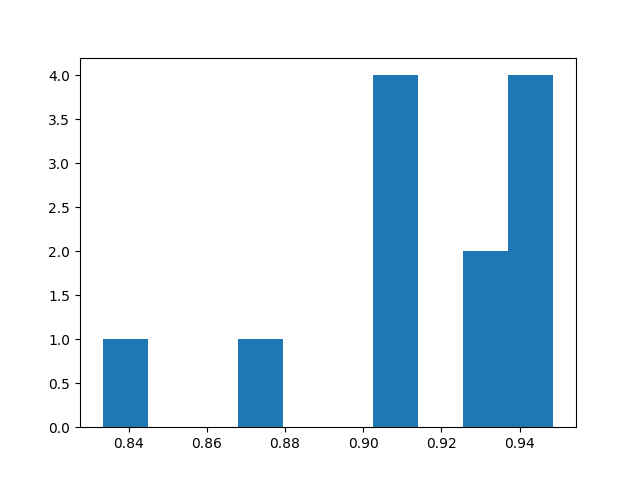
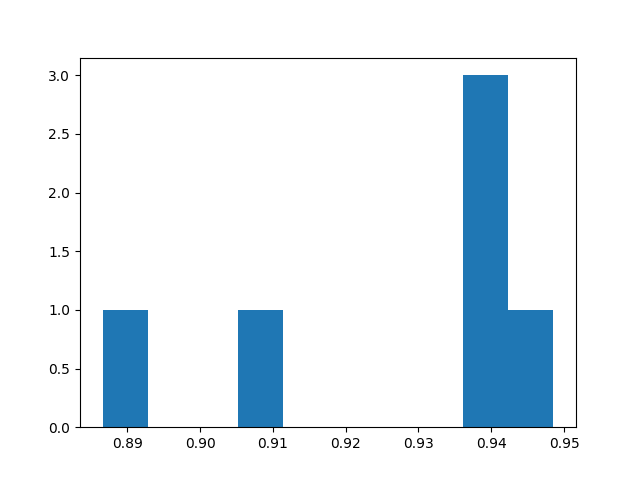
ABC and LOLStudy Done

diff --git a/main.py b/main.py
@@ -1,12 +1,14 @@
 from ABC_HFs import *
 from runParameter import *
+from scipy.io import loadmat
 
 import laspy
 import multiprocessing
 import matplotlib.pyplot as plt
 import time
 
-from scipy.io import loadmat
+finalDirectory  =  "/shome/yousef_j/thesisMATLAB/LawOfLargeNumbers"
+
 
 # import relevant data
 data = loadmat('A6.mat')
@@ -71,13 +73,13 @@ def run_simulation(start_index, end_index, results_queue):
 
 # Multiprocessing
 manager = multiprocessing.Manager()
-results_queue = manager.Queue()
+resultsQueue = manager.Queue()
 processes = []
 for i in range(numberOfCores): 
     start_index = i * simulations_per_core
     end_index = (i + 1) * simulations_per_core
     process = multiprocessing.Process(
-        target=run_simulation, args=(start_index, end_index, results_queue)
+        target=run_simulation, args=(start_index, end_index, resultsQueue)
     )
     process.start()
     processes.append(process)
@@ -89,8 +91,8 @@ for process in processes:
 # Get the results from the queue
 phi = []
 storageDestinations = []
-while not results_queue.empty():
-    phi_temp, storageDestinations_temp = results_queue.get()
+while not resultsQueue.empty():
+    phi_temp, storageDestinations_temp = resultsQueue.get()
     phi.extend(phi_temp)
     storageDestinations.extend(storageDestinations_temp)
 
@@ -105,13 +107,126 @@ plt.close()
 
 # Plotting simulated debris
 counter = 0
+locAvg, locStd, lengthSim, widthSim, angleSim = summaryStatistics(storageDestinations[0], pointOfImpact)
 for i in range(len(storageDestinations[0])):
-    if storageDestinations[0][i, 0] < 100:
+    point = storageDestinations[0][i]
+    if point[0] < 100:
         counter += 1
         continue
     else:
-        plt.scatter(storageDestinations[0][i, 0], storageDestinations[0][i, 1], color='black')
-plt.scatter(pointOfImpact[0], pointOfImpact[1], color='yellow')
+        plt.scatter(point[0], point[1], color='black')
+plt.scatter(pointOfImpact[0], pointOfImpact[1], color='Yellow')
+plt.scatter(locAvg[0], locAvg[1], color='red')
 plt.savefig("TopView")
 
 print("Number of accepted samples is", len(phi))
+print("Points exluded = ", counter)
+
+###### Law of Large numbers test ######
+###### Law of Large numbers test ######
+###### Law of Large numbers test ######
+###### Law of Large numbers test ######
+
+# def vanillaSimulation(startIdx, endIdx, results):
+#     N = endIdx - startIdx  
+#     avgX, avgY, avgZ, stdX, stdY, length, width, angle = [], [], [], [], [], [], [], []
+#     for i in range(N):
+#         storageDestinations = runParameter(ptCloud, lowestPoint, projectileMass, projectileLength, 
+#                                            projectileVelocity, pointOfImpact, psi, phi, c, b, minPen, maxPen, devPen, KDTree,)
+#         locAvg, locStd, lengthSim, widthSim, angleSim = summaryStatistics(storageDestinations, pointOfImpact)
+#         avgX.append(locAvg[0])  
+#         avgY.append(locAvg[1])  
+#         avgZ.append(locAvg[2])  
+#         stdX.append(locStd[0])  
+#         stdY.append(locStd[1])  
+#         length.append(lengthSim)
+#         width.append(widthSim) 
+#         angle.append(angleSim)
+#     results.put((avgX, avgY, avgZ, stdX, stdY, length, width, angle))
+
+# # Multiprocessing
+# manager = multiprocessing.Manager()
+# resultsQueue = manager.Queue()
+# processes = []
+# for i in range(numberOfCores): 
+#     start_index = i * simulations_per_core
+#     end_index = (i + 1) * simulations_per_core
+#     process = multiprocessing.Process(
+#         target=vanillaSimulation, args=(start_index, end_index, resultsQueue)
+#     )
+#     process.start()
+#     processes.append(process)
+
+# # Wait for all processes to finish
+# for process in processes:
+#     process.join()
+
+# avgX, avgY, avgZ, stdX, stdY, length, width, angle = [], [], [], [], [], [], [], []
+# while not resultsQueue.empty():
+#     avgX_temp, avgY_temp, avgZ_temp, stdX_temp, stdY_temp, length_temp, width_temp, angle_temp = resultsQueue.get()
+#     avgX.extend(avgX_temp)
+#     avgY.extend(avgY_temp)
+#     avgZ.extend(avgZ_temp)
+#     stdX.extend(stdX_temp)
+#     stdY.extend(stdY_temp)
+#     length.extend(length_temp)
+#     width.extend(width_temp)
+#     angle.extend(angle_temp)
+
+
+# storageDestinations = runParameter(ptCloud, lowestPoint, projectileMass, projectileLength, 
+#                                            projectileVelocity, pointOfImpact, psi, phi, c, b, minPen, maxPen, devPen, KDTree,)
+# locAvg, locStd, lengthSim, widthSim, angleSim = summaryStatistics(storageDestinations, pointOfImpact)
+
+# # Plotting simulated debris
+# counter = 0
+# for i in range(len(storageDestinations)):
+#     if storageDestinations[i, 0] < 100:
+#         counter += 1
+#         continue
+#     else:
+#         plt.scatter(storageDestinations[i, 0], storageDestinations[i, 1], color='black')
+# plt.scatter(pointOfImpact[0], pointOfImpact[1], color='Yellow')
+# plt.scatter(locAvg[0], locAvg[1], color='red')
+# plt.savefig("TopView")
+
+# plot posterior distribution of phi
+# plt.hist(avgX)
+# plt.savefig(finalDirectory + "/avgX")
+# plt.clf()
+# plt.close()
+
+# plt.hist(avgY)
+# plt.savefig(finalDirectory + "/avgY")
+# plt.clf()
+# plt.close()
+
+# plt.hist(avgZ)
+# plt.savefig(finalDirectory + "/avgZ")
+# plt.clf()
+# plt.close()
+
+# plt.hist(stdX)
+# plt.savefig(finalDirectory + "/stdX")
+# plt.clf()
+# plt.close()
+
+# plt.hist(stdY)
+# plt.savefig(finalDirectory + "/stdY")
+# plt.clf()
+# plt.close()
+
+# plt.hist(length)
+# plt.savefig(finalDirectory + "/length")
+# plt.clf()
+# plt.close()
+
+# plt.hist(width)
+# plt.savefig(finalDirectory + "/width")
+# plt.clf()
+# plt.close()
+
+# plt.hist(angle)
+# plt.savefig(finalDirectory + "/angle")
+# plt.clf()
+# plt.close()

diff --git a/ABC_HFs.py b/ABC_HFs.py
@@ -3,8 +3,15 @@ import numpy as np
 def summaryStatistics(debrisLocations, pointOfImpact):
     # summary statistics for the data
     #1. average location and its std
-    locAvg  = np.array([np.average(debrisLocations[:, 0]), np.average(debrisLocations[:, 1])])
-    locStd  = np.array([np.std(debrisLocations[:, 0]), np.std(debrisLocations[:, 1])])
+    debrisLocations = debrisLocations[debrisLocations[:, 0] >= 100]
+    locAvg = np.array([
+        np.average(debrisLocations[:, 0]),
+        np.average(debrisLocations[:, 1])
+    ])
+    locStd = np.array([
+        np.std(debrisLocations[:, 0]),
+        np.std(debrisLocations[:, 1])
+    ])
 
     #2. area covered by the debris
     excludedIndicies = []
@@ -22,9 +29,9 @@ def summaryStatistics(debrisLocations, pointOfImpact):
     width   = Ymax - Ymin
 
     #3. angle the avg point makes wrt crash location
-    vec     = locAvg - pointOfImpact[:2]
+    vec     = locAvg[:2] - pointOfImpact[:2]
     angle   = np.rad2deg(np.arctan(vec[1]/vec[0]))
-
+    
     return locAvg, locStd, length, width, angle
 
 
